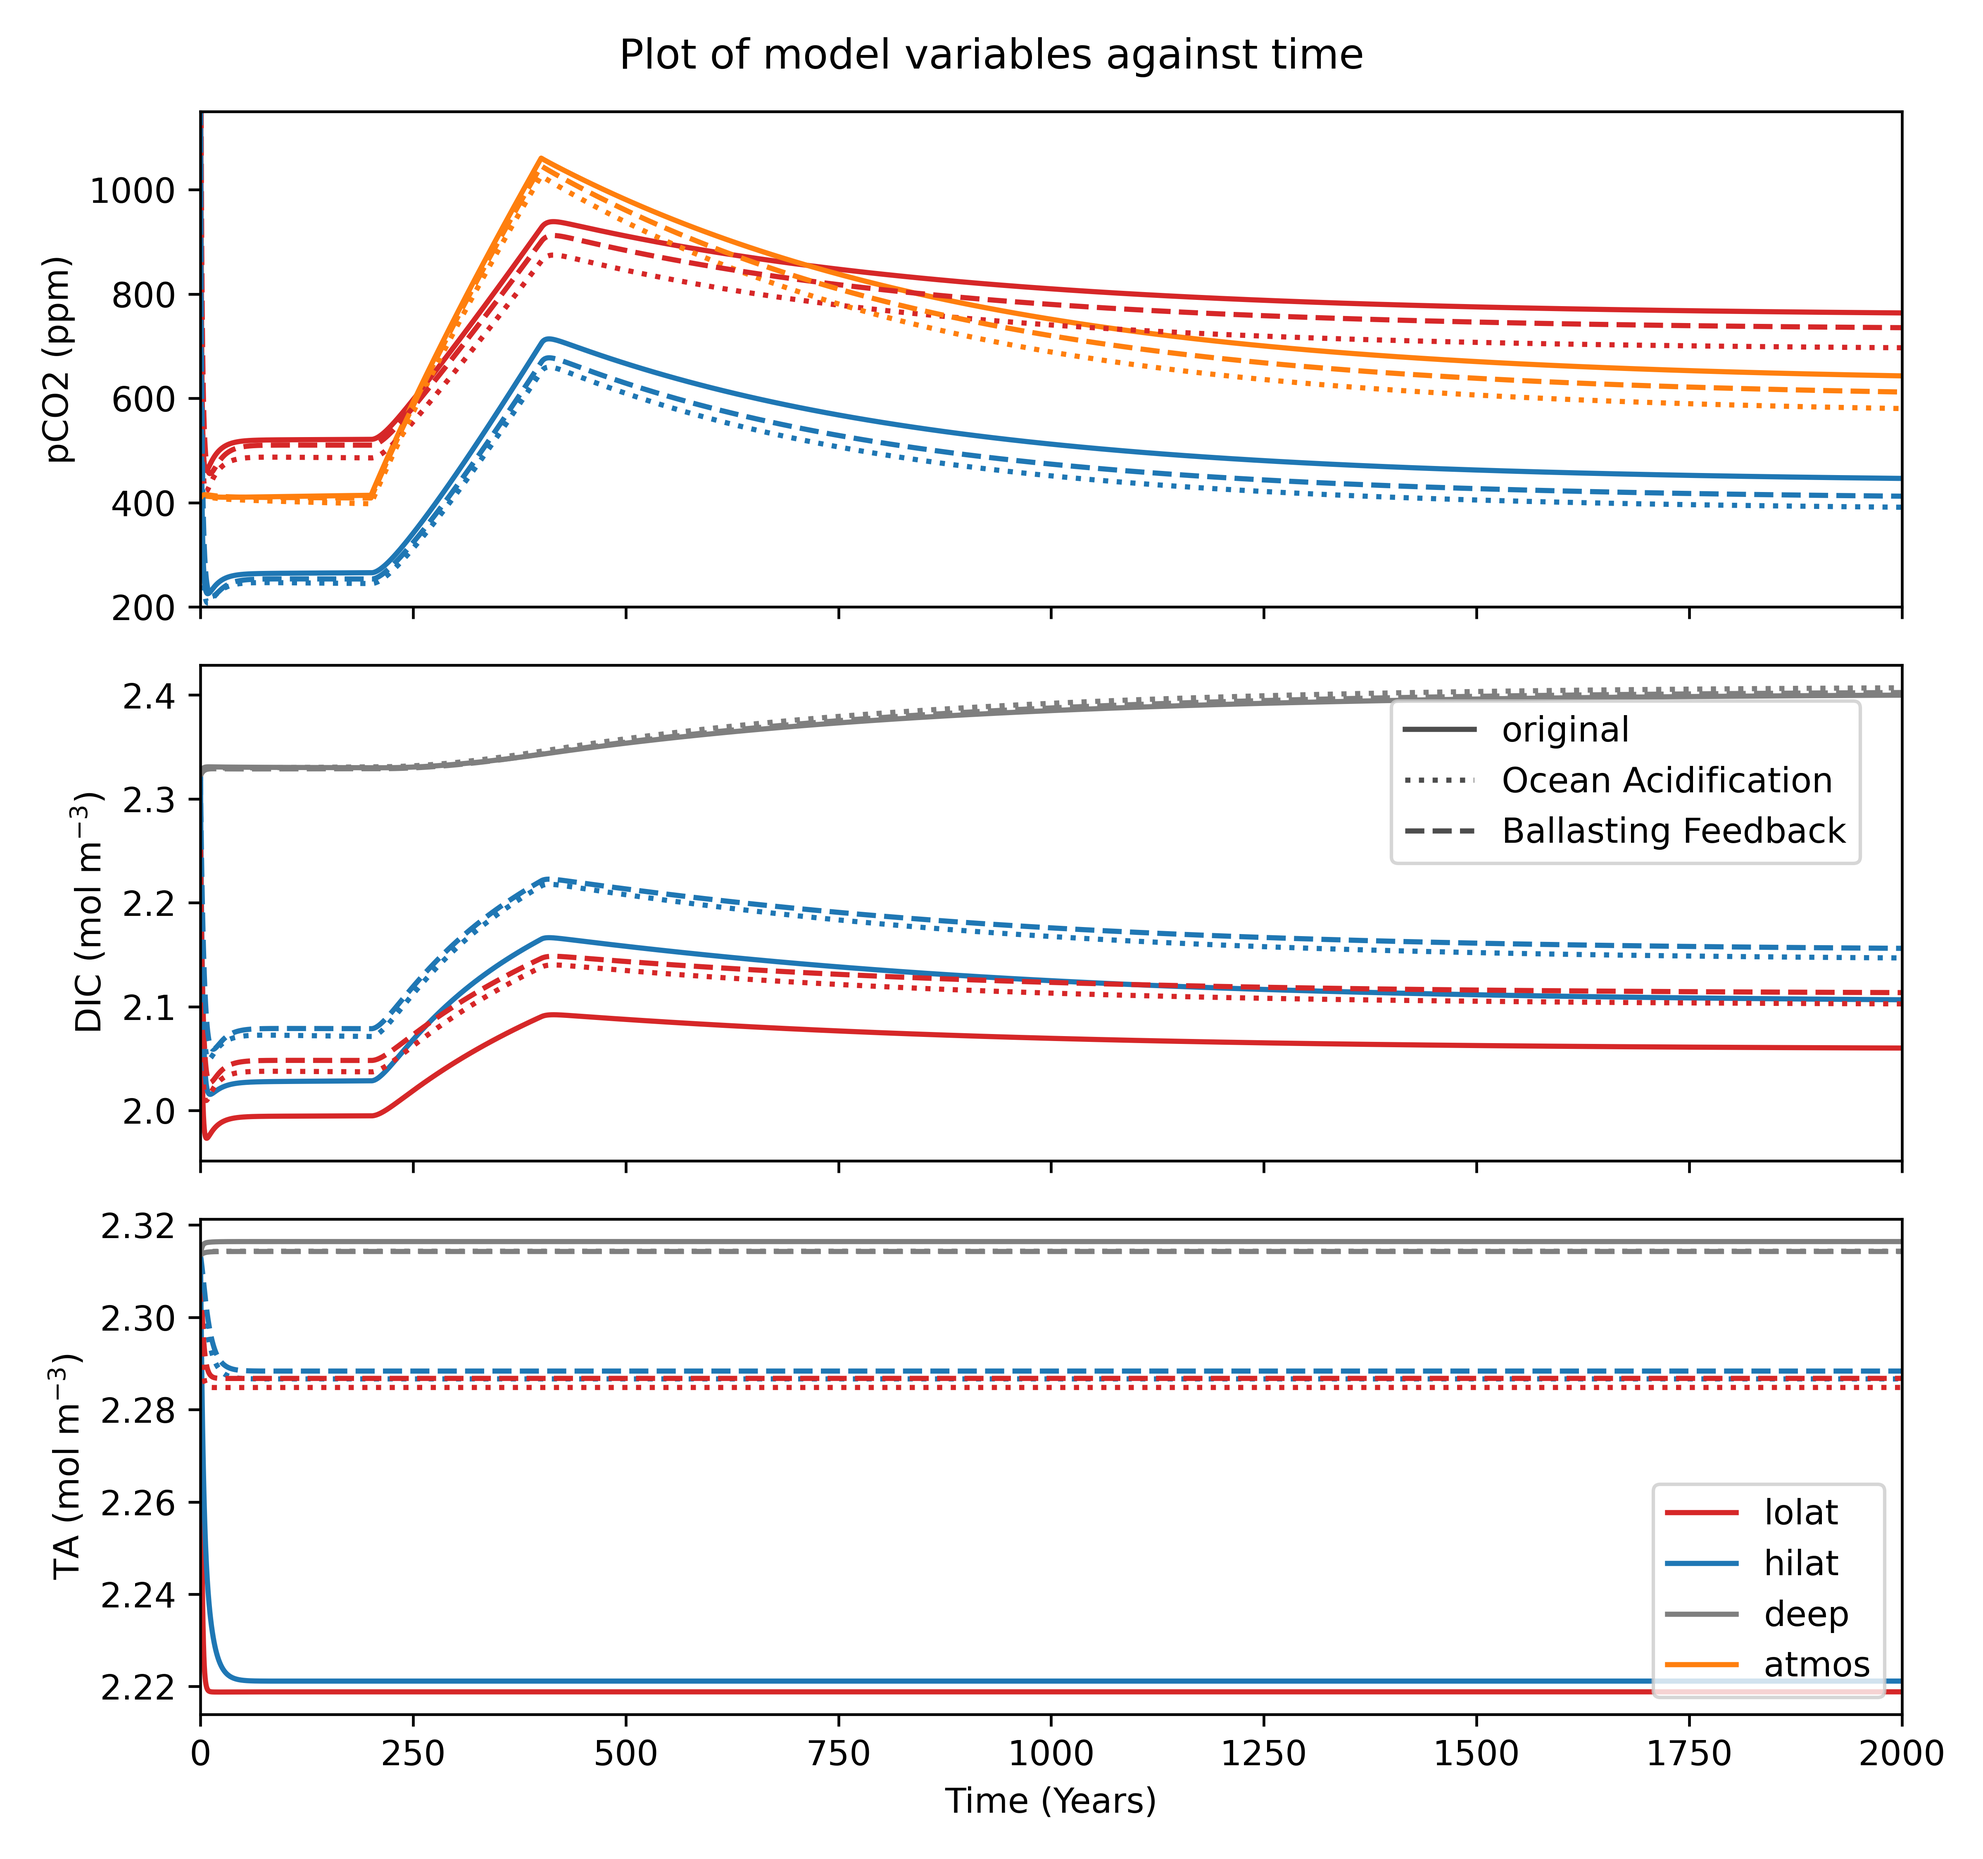
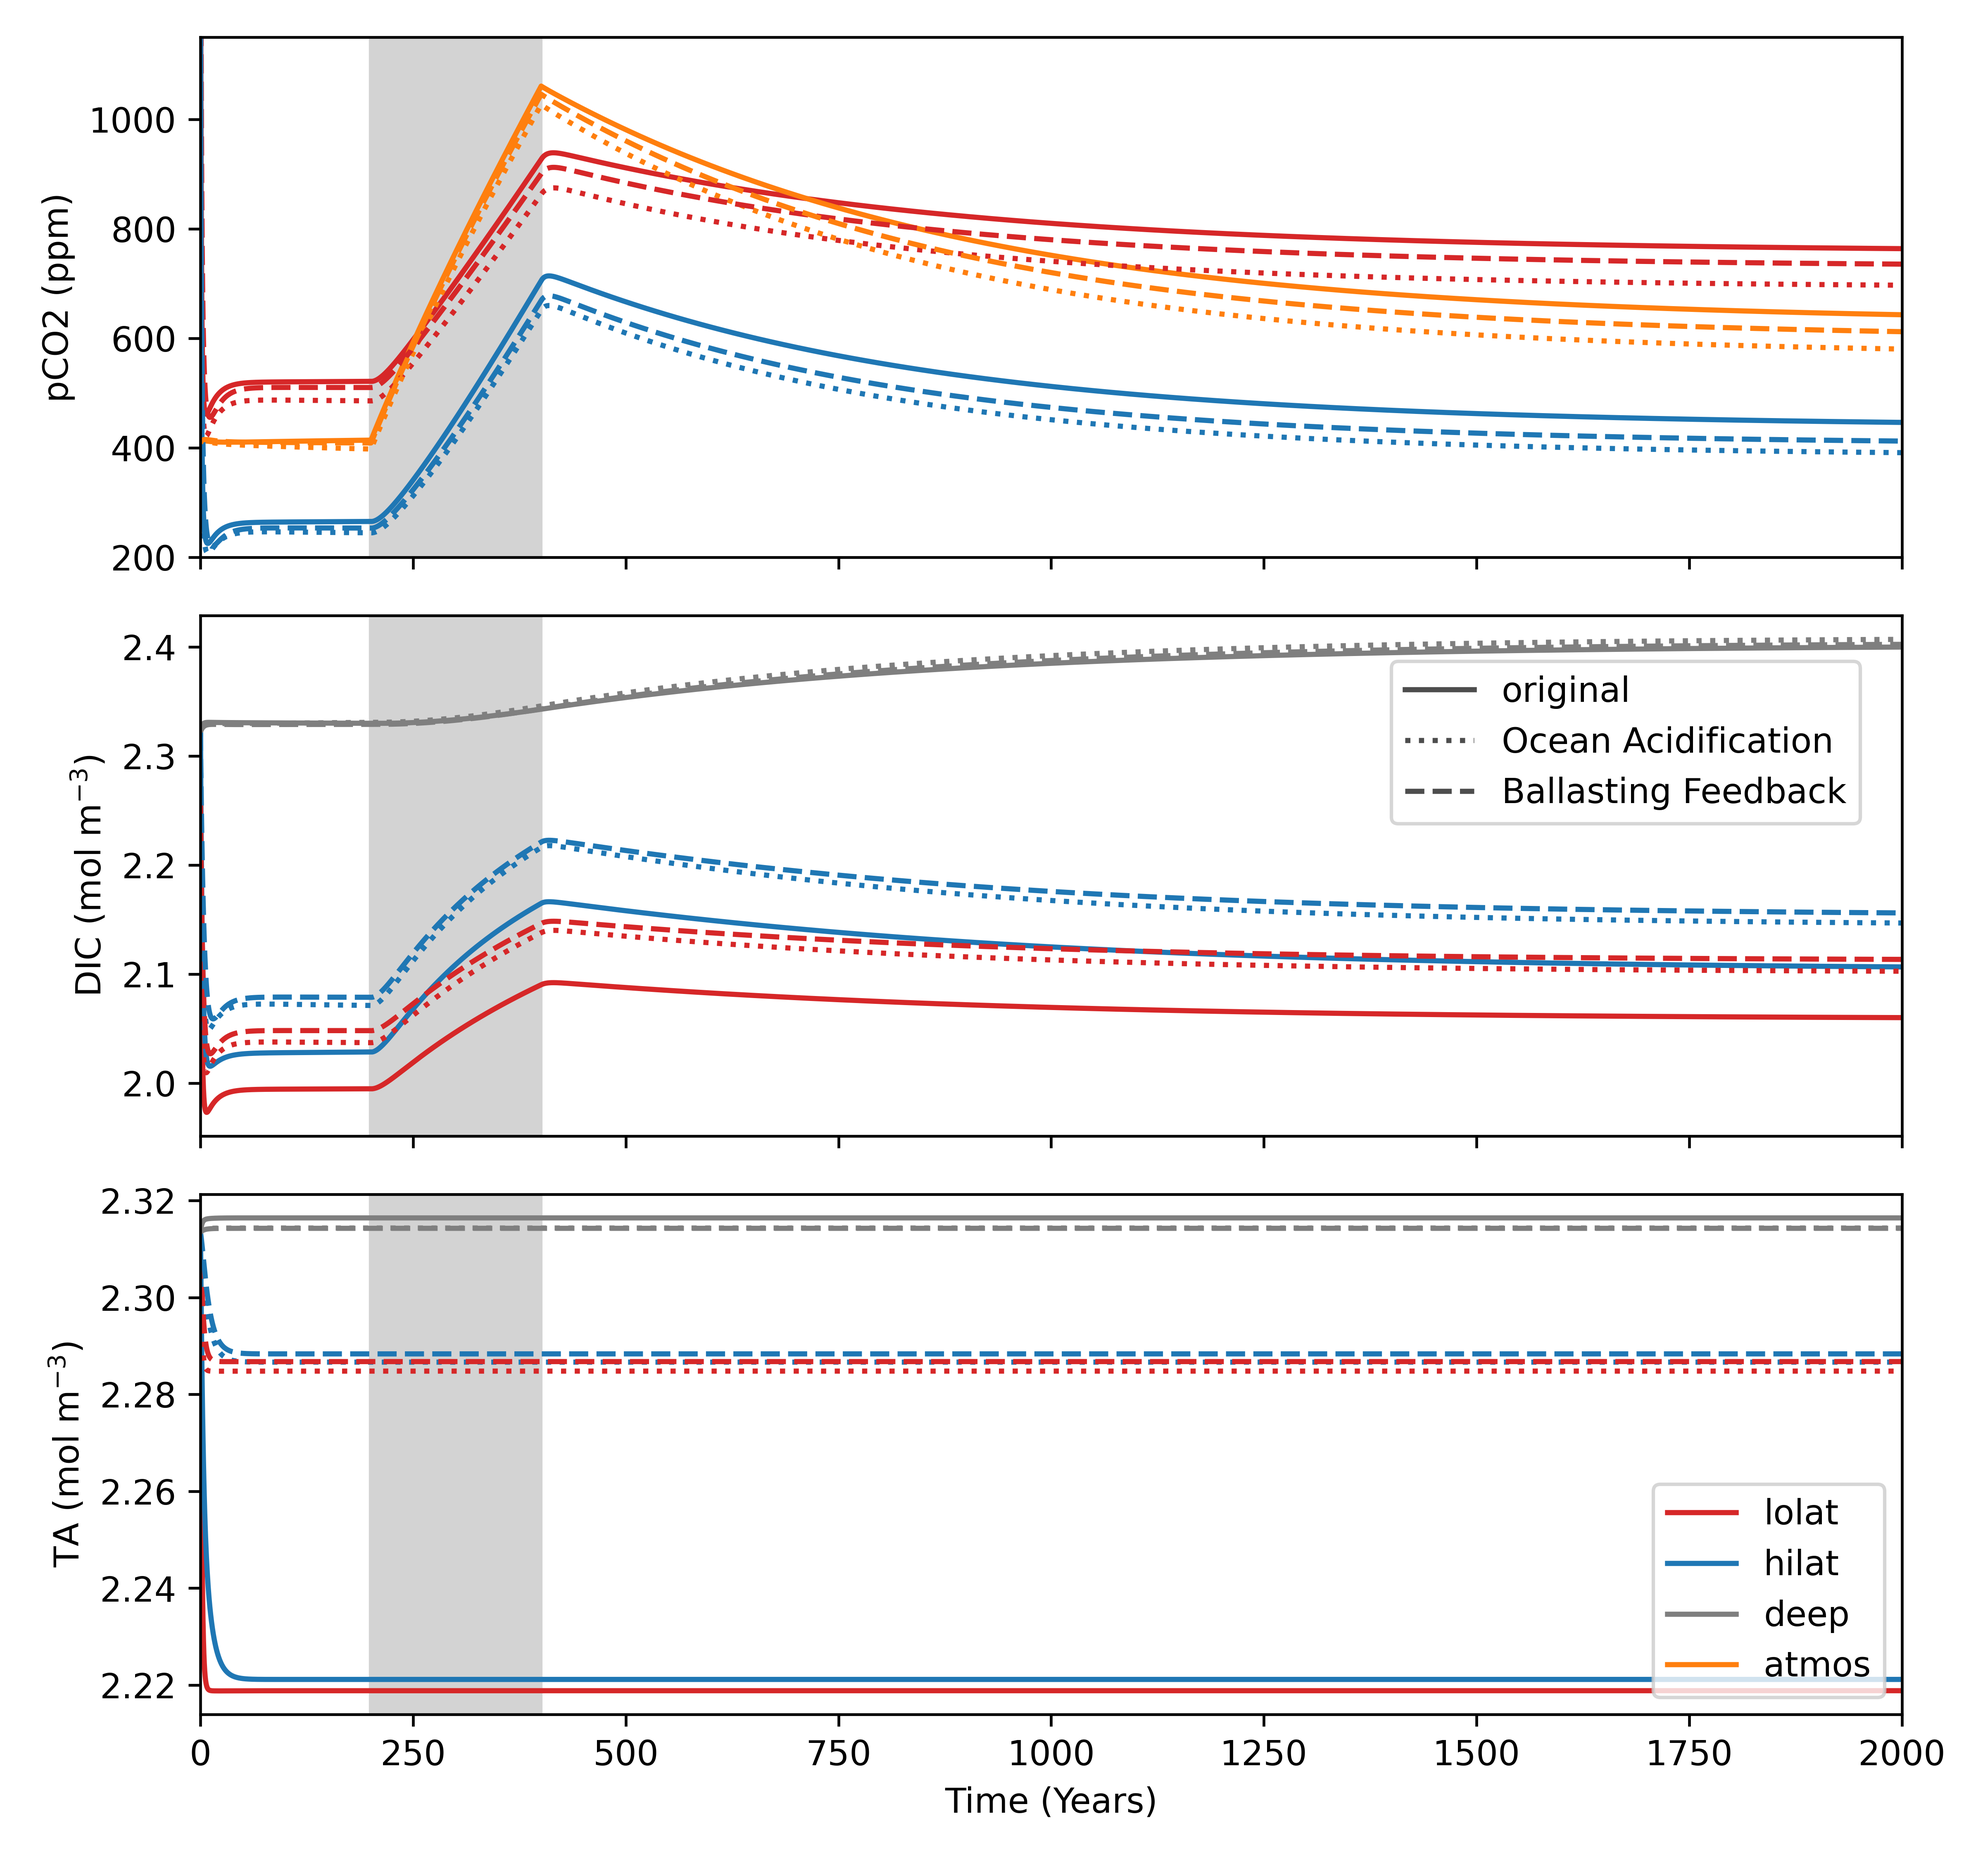
Added Grey Bars to Figure 5

diff --git a/Practical 15/LabReportQuestion5.py b/Practical 15/LabReportQuestion5.py
@@ -63,8 +63,15 @@ def run():
     axs[2].set_xlabel('Time (Years)')
     axs[1].legend(loc=(0.7, 0.6))
     axs[2].legend(loc='lower right')
-    plt.suptitle('Plot of model variables against time')
+    # plt.suptitle('Plot of model variables against time')
     fig.tight_layout()
+
+    for ax in axs:
+        maximum = ax.get_ylim()[1]
+        minimum = ax.get_ylim()[0]
+        ax.set_ylim(minimum, maximum)
+        ax.fill_between((200, 400), (minimum, minimum), (maximum, maximum), color='lightgray')
+
     # plots it
     plt.savefig('Lab_Report_Q5_Output.png', dpi=600)
     plt.show()
